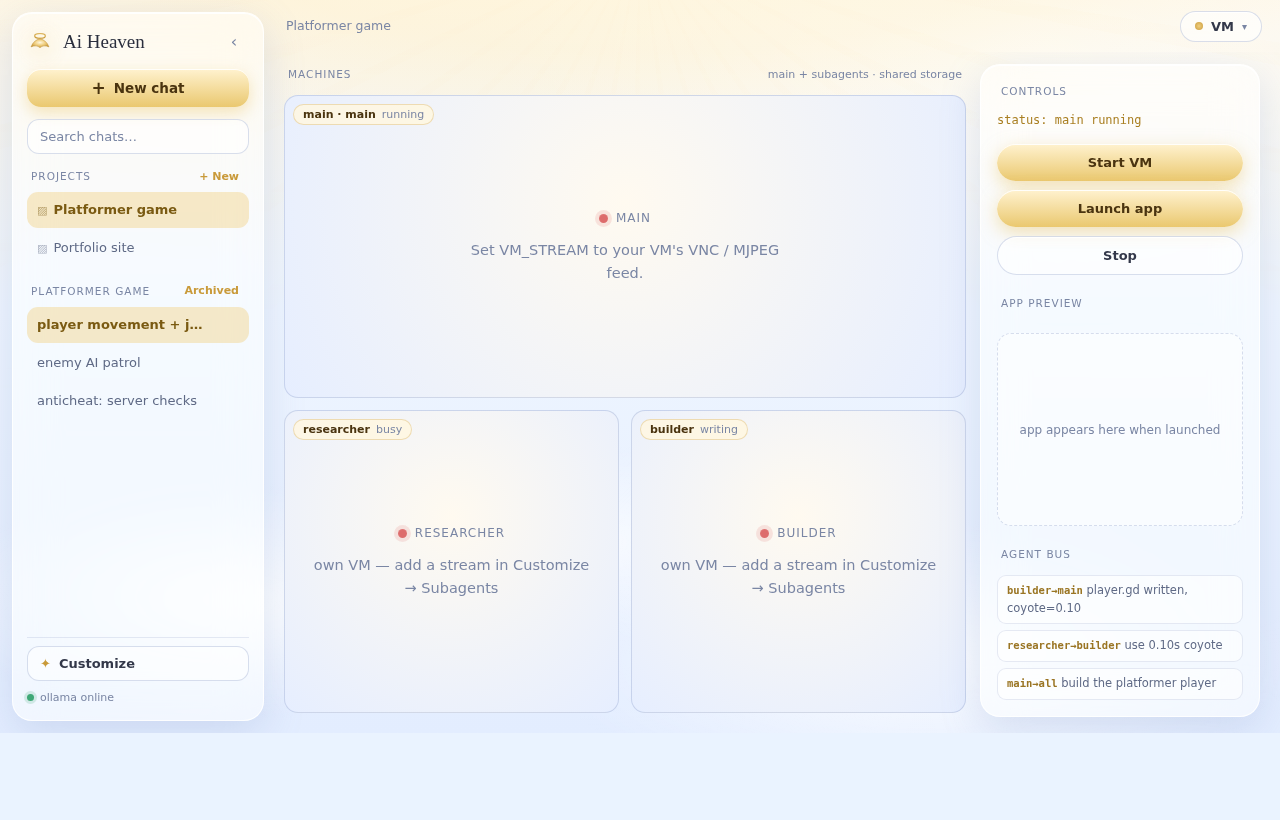
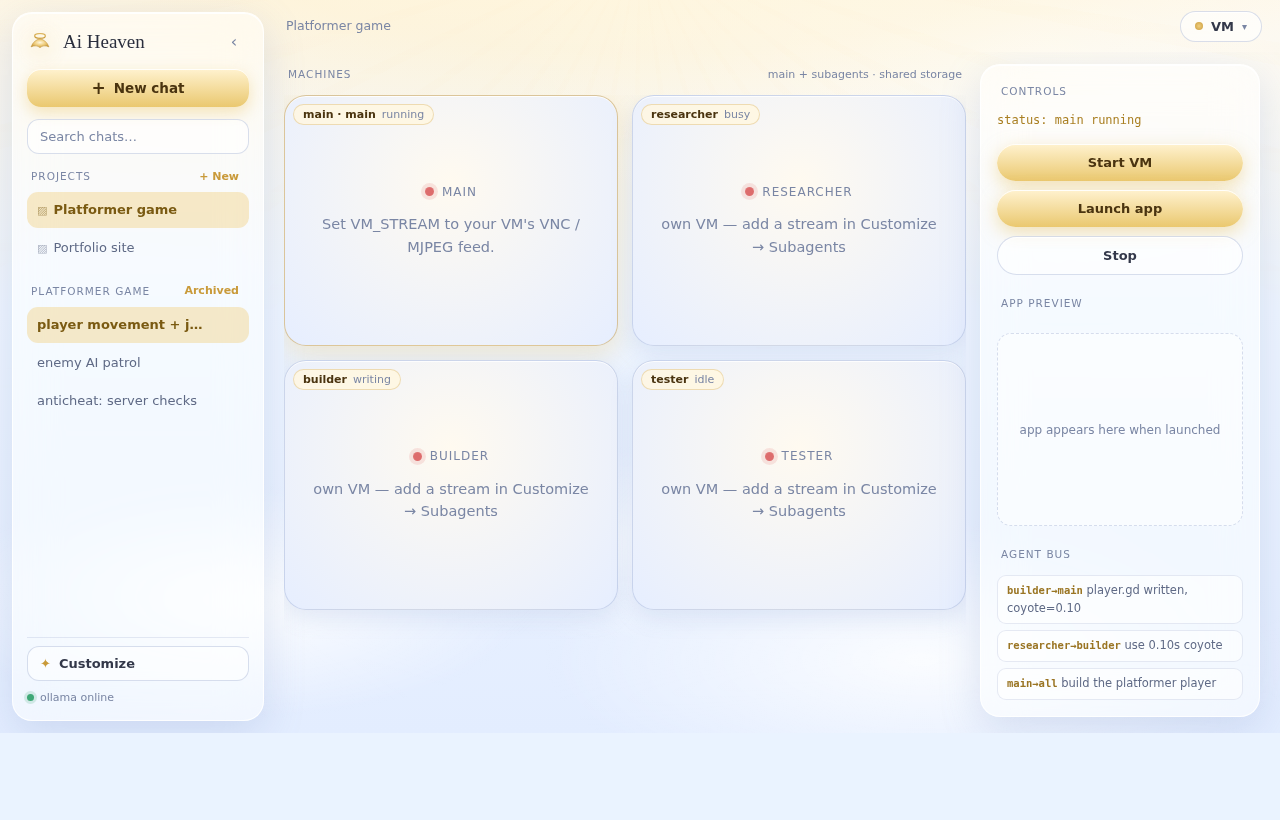
VM tab: uniform pill-rounded square card per machine (main + all subagents); give every subagent the full skill library
- vm-screen cards now equal aspect-ratio squares, 22px radius, main highlighted
- run_subagent injects the whole skill roster + keeps load_skill, so each agent has the full library

Claude-Session: https://claude.ai/code/session_01Nmj5f1gTeksDM4vgX8VzVx

diff --git a/static/style.css b/static/style.css
@@ -411,11 +411,12 @@ button{font-family:inherit}
 /* VM grid */
 .vm-wrap{flex:1;display:grid;grid-template-columns:1fr 280px;gap:14px;min-height:0;padding-top:12px}
 .vm-main{display:flex;flex-direction:column;min-height:0}
-.vm-grid{flex:1;display:grid;grid-template-columns:repeat(auto-fill,minmax(230px,1fr));
-  grid-auto-rows:minmax(150px,1fr);gap:12px;overflow-y:auto;padding-bottom:4px}
-.vm-screen{position:relative;border-radius:14px;overflow:hidden;border:1px solid var(--line-strong);
+.vm-grid{flex:1;display:grid;grid-template-columns:repeat(auto-fill,minmax(240px,1fr));
+  gap:14px;overflow-y:auto;padding-bottom:4px;align-content:start}
+.vm-screen{position:relative;aspect-ratio:4/3;border-radius:22px;overflow:hidden;
+  border:1px solid var(--line-strong);box-shadow:0 8px 22px rgba(120,140,190,.16),inset 0 1px 0 rgba(255,255,255,.8);
   background:radial-gradient(circle at 50% 35%,#fffaf0,#e6eeff);display:flex;align-items:center;justify-content:center}
-.vm-screen.primary{grid-column:1/-1;min-height:230px}
+.vm-screen.primary{border-color:rgba(201,154,58,.5);box-shadow:0 10px 26px rgba(234,200,111,.3),inset 0 1px 0 rgba(255,255,255,.85)}
 .vm-screen img{width:100%;height:100%;object-fit:contain}
 .vm-tag{position:absolute;top:8px;left:8px;z-index:2;font:600 11px var(--sans);color:#4a3410;
   background:rgba(255,247,224,.85);border:1px solid rgba(201,154,58,.3);padding:3px 9px;border-radius:999px;

diff --git a/static/index.html b/static/index.html
@@ -163,7 +163,7 @@
 
       <section class="tabpane" data-tab="agents">
         <h3>Subagents</h3>
-        <p class="muted">Named helpers the main agent can delegate a task to with <code>spawn_subagent</code>. Each has its own prompt, model, and skills.</p>
+        <p class="muted">Named helpers the main agent can delegate a task to with <code>spawn_subagent</code>. Each has its own prompt, model, and (optionally) its own VM — and every one gets the <b>full skill library</b> plus shared storage and the agent bus.</p>
         <ul id="subagents" class="agent-cards"></ul>
         <div class="agent-form">
           <input id="sa-name" placeholder="name (e.g. researcher)">

diff --git a/app.py b/app.py
@@ -245,6 +245,13 @@ def run_subagent(client, default_model: str, sub: dict, task: str) -> str:
     """Run a nested tool-loop for one subagent and return its final answer.
     Runs autonomously (no approval modal) but stays inside the sandbox."""
     sys_lines = [sub.get("system") or "You are a focused helper subagent. Be terse."]
+    # every subagent gets the whole skill library: roster in the prompt, full
+    # bodies loadable on demand via load_skill (same as the main agent).
+    roster = [f"- {n}: {s['desc']}" for n, s in tools.SKILLS.items()]
+    if roster:
+        sys_lines.append("\nSkills available (load full body with load_skill):\n"
+                         + "\n".join(roster))
+    # preload the bodies this subagent is explicitly assigned
     for name in sub.get("skills", []):
         s = tools.SKILLS.get(name)
         if s:
